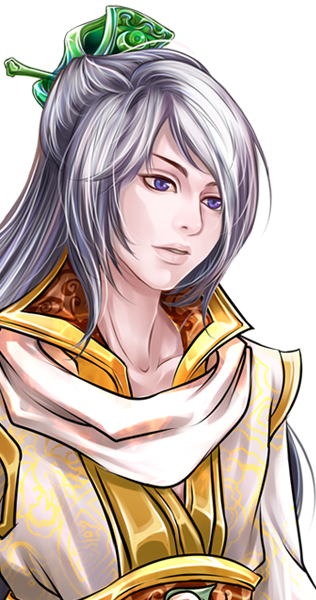
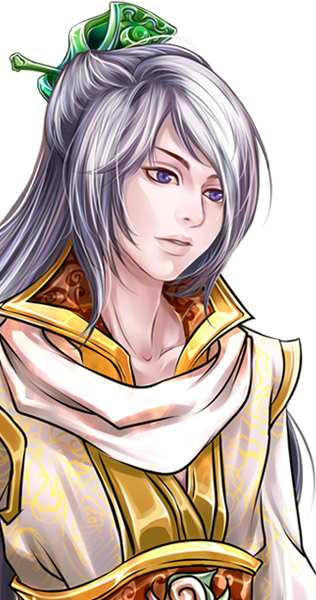
增加了剧情，修改了表情图
11

diff --git a/online/js/g_config.js b/online/js/g_config.js
@@ -76,16 +76,21 @@ woh.g_config.script={
         type:'battle',
         repeat:false,
         data:{
-            "role":["001","002"],
+            "role":["001"],
             "monster":[
-                [
-                    [{type:'crab',x:100,y:200},{type:'crab',x:800,y:300},{type:'crab',x:300,y:500}],
+                //sample
+                //[
+                    //[{type:'crab',x:100,y:200},{type:'crab',x:800,y:300},{type:'crab',x:300,y:500}],
                     // [{type:'crab',x:100,y:200},{type:'crab',x:300,y:200}],
                     // [{type:'crab',x:100,y:200},{type:'crab',x:300,y:200}]
-                ],
+                //],
                 // [
                 //     [{type:'crab_boss',x:100,y:200}]
                 // ]
+                [
+                    [{type:'crab',x:100,y:200}],
+                    [{type:'crab',x:800,y:300},{type:'crab',x:300,y:500}]
+                ],
             ]
         },
         next:'map_1'
@@ -129,7 +134,7 @@ woh.g_config.script={
             {'avatar':'resources/images/dialogue/sola_cheng_food.png','name':'少年','content':'粥是好粥，就是这碗寒酸了点，此粥色泽金黄，当用镶金玉碗相配，方显相得益彰，色香和合——烦请再来一碗。',position:'right',globalBg : 'resources/images/bg/bg-boat-inner.jpg'},
             {'avatar':'resources/images/dialogue/rio_tang_wei.png','name':'唐如','content':'买不起镶金玉碗还真是抱歉。好吧好吧，你等着，我给你盛去，真是个爱使唤人的大少爷。',position:'left',globalBg : 'resources/images/bg/bg-boat-inner.jpg'},
             {'avatar':'resources/images/dialogue/sola_cheng_pity.png','name':'少年','content':'这是你家？果然破落。那边架上那堆书看来也是你的，俗语说，读书穷三代，笔墨毁一生，而今亲眼所见，果真不假。',position:'right',globalBg : 'resources/images/bg/bg-boat-inner.jpg'},
-            {'avatar':'resources/images/dialogue/rio_tang_light_angry.png','name':'唐如','content':'是是是，实 在 抱 歉，阁下若已吃饱，就请歇息吧。',position:'left',globalBg : 'resources/images/bg/bg-boat-inner.jpg'},
+            {'avatar':'resources/images/dialogue/rio_tang_light_angry.png','name':'唐如','content':'是是是，实~在~抱~歉!阁下若已吃饱，就请歇息吧。',position:'left',globalBg : 'resources/images/bg/bg-boat-inner.jpg'},
         ],
         next:'drama_3'
     },
@@ -153,14 +158,52 @@ woh.g_config.script={
         type:'dialogue',
         repeat:false,
         data:[
-            {'avatar':'resources/images/dialogue/sola_cheng_normal.png','name':'少年','content':'饿了。',position:'right',globalBg : 'resources/images/bg/bg-boat-outer.jpg'},
-            {'avatar':'resources/images/dialogue/rio_tang_normal.png','name':'唐如','content':'来，这是刚熬好的粥，哎呀，我说你倒是慢点喝，刚饿晕了，不宜马上暴食啊。',position:'left',globalBg : 'resources/images/bg/bg-boat-outer.jpg'},
-            {'avatar':'resources/images/dialogue/sola_cheng_normal.png','name':'少年','content':'粥是好粥，就是这碗寒酸了点，此粥色泽金黄，当用镶金玉碗相配，方显相得益彰，色香和合——烦请再来一碗。',position:'right',globalBg : 'resources/images/bg/bg-boat-outer.jpg'},
-            {'avatar':'resources/images/dialogue/rio_tang_normal.png','name':'唐如','content':'买不起镶金玉碗还真是抱歉。好吧好吧，你等着，我给你盛去，真是个爱使唤人的大少爷。',position:'left',globalBg : 'resources/images/bg/bg-boat-outer.jpg'},
-            {'avatar':'resources/images/dialogue/sola_cheng_normal.png','name':'少年','content':'这是你家？果然破落。那边架上那堆书看来也是你的，俗语说，读书穷三代，笔墨毁一生，而今亲眼所见，果真不假。',position:'right',globalBg : 'resources/images/bg/bg-boat-outer.jpg'},
-            {'avatar':'resources/images/dialogue/rio_tang_normal.png','name':'唐如','content':'是是是，实 在 抱 歉，阁下若已吃饱，就请歇息吧。',position:'left',globalBg : 'resources/images/bg/bg-boat-outer.jpg'},
+            {'avatar':'resources/images/dialogue/rio_tang_normal.png','name':'唐如','content':'好舒服的香气，不似花香，却似……唔，稻香——咦？这是谁的衣服？',position:'left',globalBg : 'resources/images/bg/bg-boat-outer.jpg'},
+            {'avatar':'resources/images/dialogue/sola_cheng_pity.png','name':'少年','content':'看你衣衫破败，身体羸弱，这般躺在外面，若受寒得病，想来也是孤苦伶仃无人照拂，在下实在于心不忍，便解衣与你御寒。',position:'right',globalBg : 'resources/images/bg/bg-boat-outer.jpg'},
+            {'avatar':'resources/images/dialogue/rio_tang_wei.png','name':'唐如','content':'儒生今日还要为生计操劳，若阁下已无大碍，儒生恕不远送。',position:'left',globalBg : 'resources/images/bg/bg-boat-outer.jpg'},
+            {'avatar':'resources/images/dialogue/sola_cheng_normal.png','name':'少年','content':'你这住处还挺别致，只是此处潮湿阴寒，你又身体羸弱，长住下去似乎不妥吧。',position:'right',globalBg : 'resources/images/bg/bg-boat-outer.jpg'},
+            {'avatar':'resources/images/dialogue/rio_tang_light_angry.png','name':'唐如','content':'又是身……身体羸弱，好吧，这原是父亲留下的船只，去岁寒冬，海风卷了茅屋，未及修葺，便在此暂住，阁下不必担忧。',position:'left',globalBg : 'resources/images/bg/bg-boat-outer.jpg'},
+            {'avatar':'resources/images/dialogue/sola_cheng_food.png','name':'少年','content':'唔，仔细看去，这船的做工倒是不坏。',position:'right',globalBg : 'resources/images/bg/bg-boat-outer.jpg'},
+            {'avatar':'resources/images/dialogue/sola_cheng_a.png','name':'少年','content':'哎呀，坏了坏了！劳烦陪在下再去一趟昨日的海滩，昨日晕倒之时，似乎落下了重要的东西呢。',position:'right',globalBg : 'resources/images/bg/bg-boat-outer.jpg'},
+            {'avatar':'resources/images/dialogue/rio_tang_wei.png','name':'唐如','content':'……好吧。（看来捡了个大麻烦回家啊。）',position:'left',globalBg : 'resources/images/bg/bg-boat-outer.jpg'},
         ],
-        next:'drama_3'
+        next:'loading_3'
+    },
+    'loading_3':{
+        type:'loading',
+        repeat:true,
+        data:{
+            key:'battle_2'
+        },
+        next:'battle_withlittlecrab2'
+    },
+    'battle_withlittlecrab2':{
+        type:'battle',
+        repeat:false,
+        data:{
+            "role":["001","002"],
+            "monster":[
+                [
+                    [{type:'crab',x:100,y:200},{type:'crab',x:100,y:200},{type:'crab',x:100,y:200}],
+                    [{type:'crab',x:100,y:200},{type:'crab',x:100,y:200},{type:'crab',x:100,y:200}]
+                ]
+            ]
+        },
+        next:'map_2'
+    },
+    'map_2':{
+        type:'map',
+        repeat:true,
+        data:{},
+        next:'dialogue_5'
+    },
+    'dialogue_5':{
+        type:'dialogue',
+        repeat:false,
+        data:[
+            {'avatar':'resources/images/dialogue/crab_boss.png','name':'大王蟹','content':'可恶，可恶的人类！侵我族类，不可饶恕！',position:'left',globalBg : 'resources/images/bg/bg-beach.jpg'},
+        ],
+        next:'intro'
     },
 };  
 
@@ -288,7 +331,13 @@ woh.g_config.resources = {
 
             'images/monster/normal001-crab.png'
         ]
-    }
+    },
+    battle_2: {
+        type: 'battle',
+        resources: [
+            'images/bg/bg-beach.jpg',
+            ]
+        }
 };
 
 //衣服的动画数据
